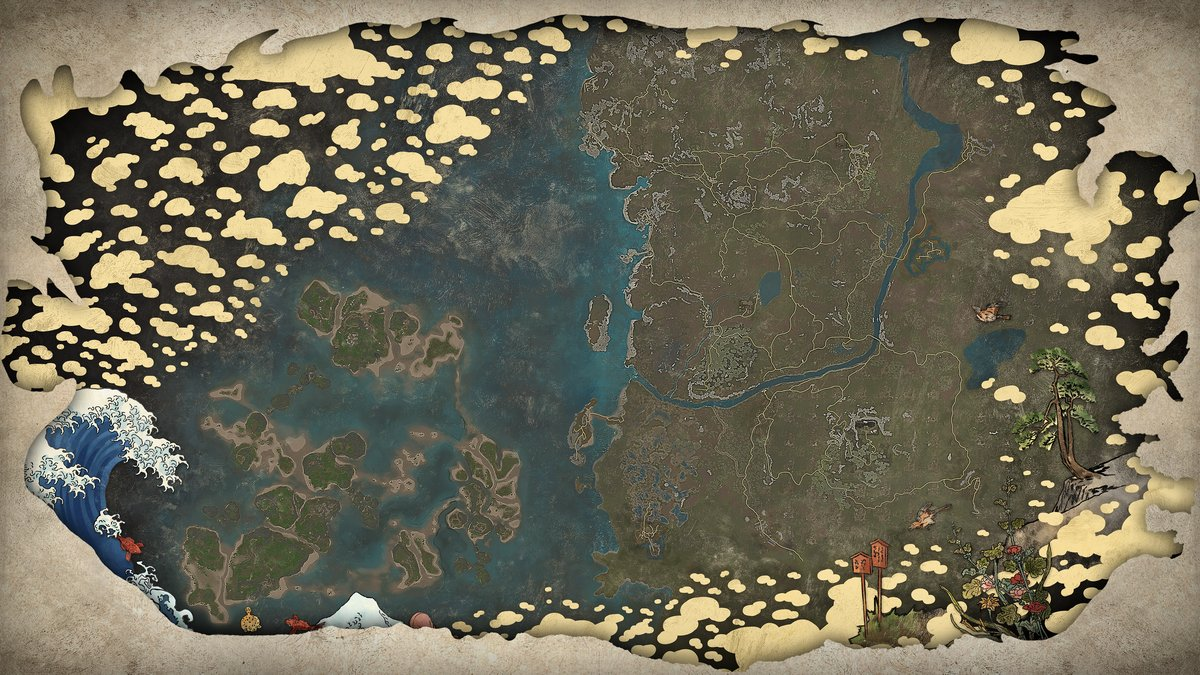
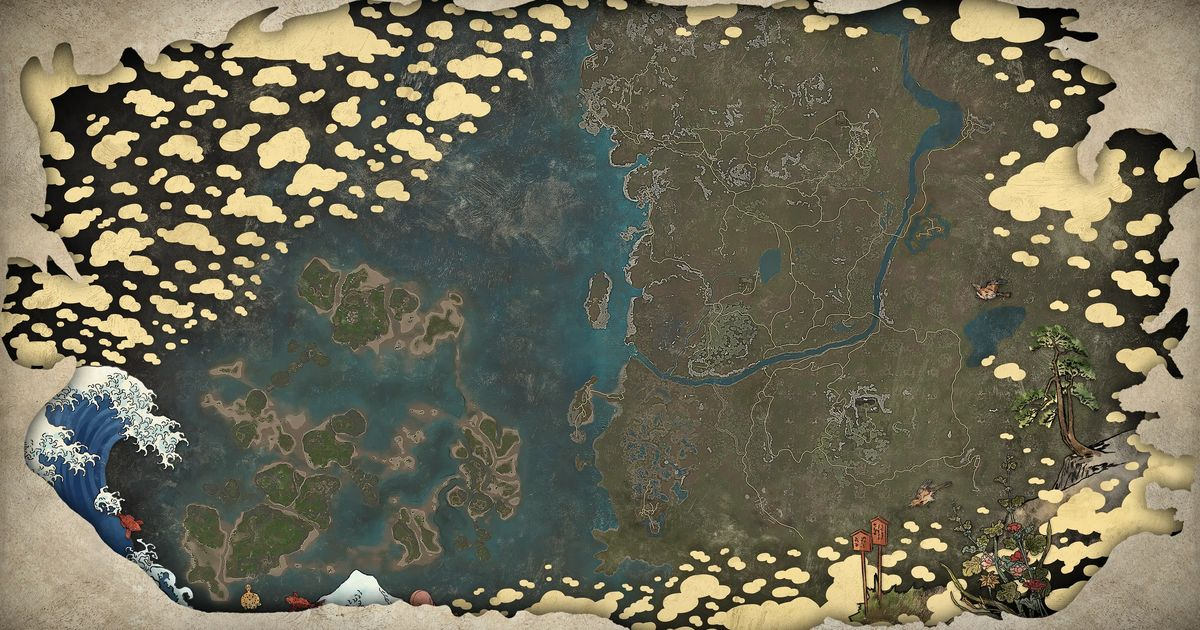
Fix Open Graph image (regenerate thumbnail from the full map, fix the URL)

diff --git a/index.html b/index.html
@@ -9,7 +9,8 @@
     <meta property="og:description" content="(JP/EN) 施設攻略マップ。ピンをタップして必要資源や詳細を確認できます。 / Interactive map. Click pins to check resources and details.">
     <meta property="og:site_name" content="piko1250.github.io">
     <meta property="og:title" content="Sengoku Dynasty Map">
-    <meta property="og:image" content="https://piko1250.github.io/sengokudynasty-archipelago-map/images/map-image.png">
+    <meta property="og:image" content="https://piko1250.github.io/sengokudynasty-map/images/og-image.jpg">
+    <meta property="og:url" content="https://piko1250.github.io/sengokudynasty-map/">
     <meta property="og:type" content="website">
 
 </head>
